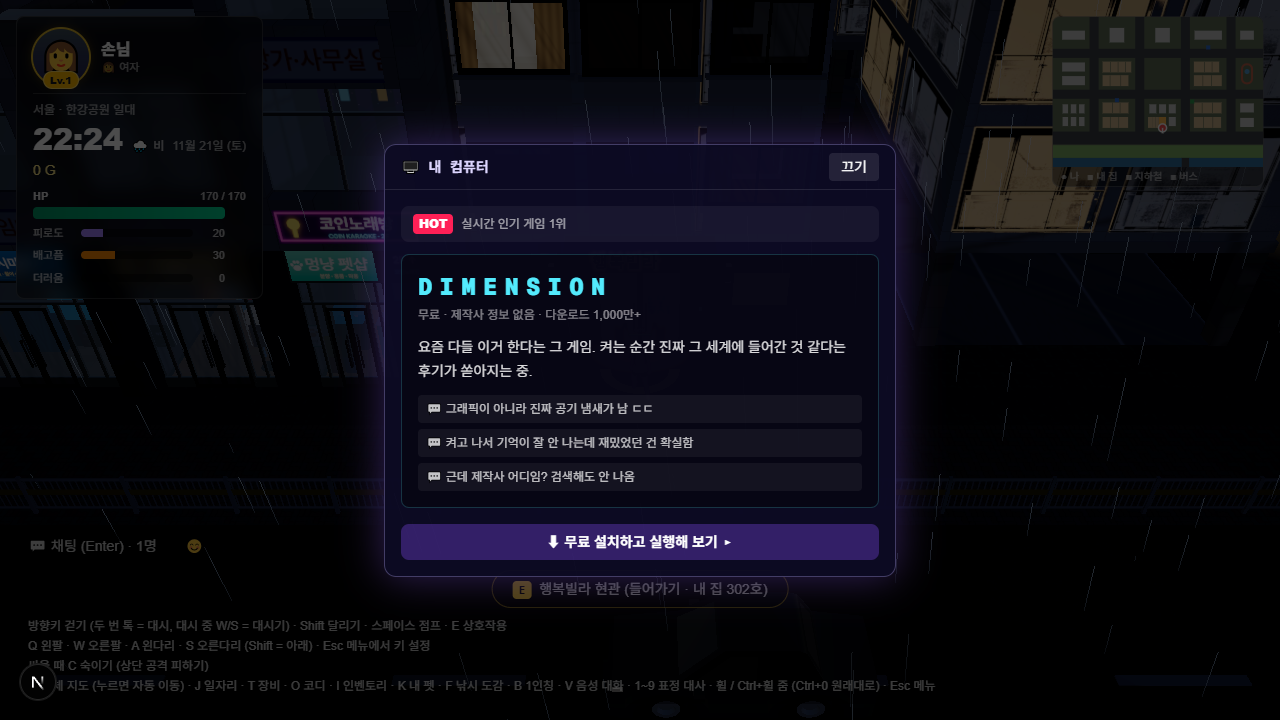
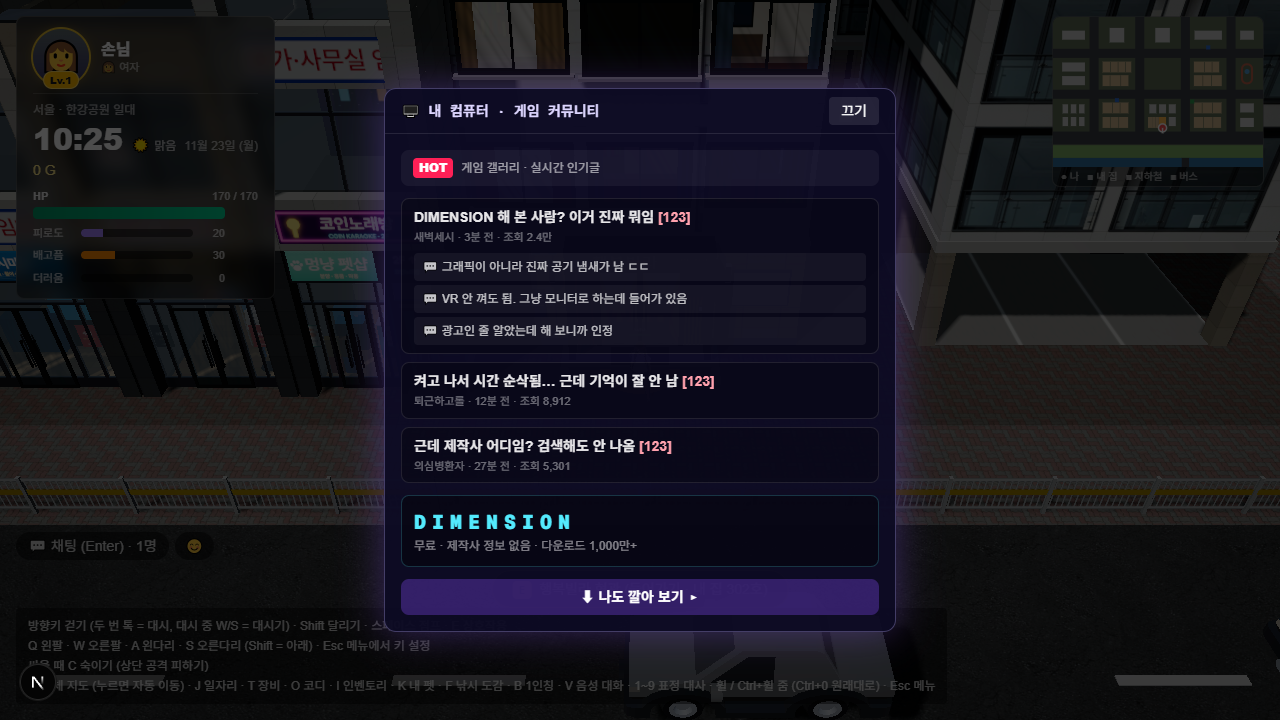
IRON FIST: 프롤로그를 '게임이라고 믿는 순서'로 바꾼 내용 반영 (인터넷 소문·설치 화면·가짜 게임 HUD)

diff --git a/src/App.js b/src/App.js
@@ -305,7 +305,7 @@ useEffect(() => {
       name: '프로젝트 3: Together 웹 3D 격투 RPG',
       thumbnail: '/together-cover.jpg',
       description: '브라우저에서 바로 즐기는 3D 격투 RPG입니다. 격투 대전과 서울 동네를 걷는 생활 모드, 집 컴퓨터로 접속하는 몬스터 차원, 실시간 멀티플레이까지 담았습니다.',
-      fullDescription: 'Together(옛 이름 IRON FIST)는 설치 없이 웹 브라우저에서 바로 플레이하는 3D 격투 RPG입니다. 철권 같은 3D 격투 게임의 손맛을 웹에서 구현해 보고 싶어 시작했고, 지금도 계속 개발하고 있습니다.\n\n1:1 대전(VS CPU, 2P, 연습 모드)을 만들었고, 레벨·경험치·골드는 하나의 프로필로 모든 모드가 함께 씁니다. 몬스터 사냥은 따로 고르는 메뉴가 아니라 이야기 속으로 넣었습니다. 서울 내 집 컴퓨터에서 요즘 유행한다는 게임 DIMENSION을 깔아 실행하면 모니터 속으로 빨려 들어가 몬스터가 사는 다른 차원으로 떨어집니다. 처음 한 번은 프롤로그가 펼쳐집니다. 안개 숲에 떨어져 정체 모를 그림자에게 쫓기다 벼랑 끝에서 뛰어내릴지 맞서 싸울지 고르고, 벼랑 아래에서 마을 사람에게 구조되어 깨어납니다. 모든 대사창에는 말하는 사람의 초상화가 함께 나오며, 그린 초상화가 없는 캐릭터·NPC·몬스터는 3D 모델의 얼굴을 그 자리에서 찍어 씁니다. 이야기의 무대는 사냥터 남쪽의 경계 마을입니다. 돌담과 북문으로 사냥터와 이어져 있고 몬스터는 마을에 들어오지 못하며, 포탈 안내인·촌장·북문 문지기·여관 주인·마을 아이 다섯 NPC에게 말을 걸어 이 세계의 이야기를 들을 수 있습니다. 차원에 들어간 사람은 서울에서 사라지고, 로그아웃하면 다시 집 컴퓨터 앞으로 돌아옵니다. 같은 차원에 접속한 사람들은 모두 같은 몬스터를 보며 함께 싸웁니다. 가장 먼저 들어온 사람의 브라우저가 몬스터를 계산해 보내고, 그 사람이 나가면 다음 사람이 받은 장면에서 이어서 계산합니다. 함께 때린 몬스터를 잡으면 때린 사람 모두가 경험치와 골드를 받습니다. 여기에 한강이 보이는 서울 동네를 걸으며 내 집(행복빌라)에 들어가고, 아르바이트·낚시·옷 가게·펫 키우기·코인노래방을 즐기고, 지하철을 타고 놀이공원에 가서 놀이기구를 1인칭으로 타는 생활 모드를 더했습니다. 동네에는 계절에 따라 비·눈·뇌우·안개가 바뀌는 날씨도 있습니다.\n\n타격 판정은 주먹·발이 실제로 상대 몸에 닿는 순간에만 들어갑니다. 화면 캐릭터와 같은 관절 각도를, 캐릭터마다 3D 모델 뼈에서 잰 팔·다리 길이로 이어 붙여 매 프레임 주먹·발과 상대 몸의 위치를 계산합니다. 상대를 보고 있는 캐릭터는 캐릭터마다 다른 반응 속도로 공격을 알아채고 뒤로 피하며, 거리가 모자라면 피하다가 맞습니다.\n\n집 안에서는 샤워·양치·설거지·빨래 같은 집안일을 단계별 동작으로 할 수 있습니다. 샤워는 부스로 들어가 물을 틀고 머리를 감고 몸을 닦고 헹군 뒤 수건으로 닦는 순서로 진행되고, 씻는 동안에는 목욕 가운을 입고 머리카락을 수건 속에 감싼 모습으로 바뀝니다(가운과 수건은 캐릭터마다 몸통·팔 굵기를 재서 맞춰 만들어 뼈에 붙입니다). 씻을수록 땀·먼지 수치가 줄어듭니다. 냉장고에서 꺼내 먹은 그릇은 싱크대에 쌓여 한 개씩 닦아 건조대에 올리고, 빨래는 세탁기에 넣으면 실제 시간으로 돌아가며 끝나면 꺼내 건조대에 널었다가 마르면 갭니다. 진행 상태는 계정에 저장되어 창을 닫아도 세탁과 건조가 이어집니다.\n\n로그인하면 기록이 Supabase 서버에 자동 저장되고, 같은 동네에 접속한 친구와 실시간으로 만나 함께 움직이고 겨룰 수 있습니다. 내가 보는 친구의 행동과 친구가 보는 내 행동이 같도록, 근무·낚시·잠자기·TV 시청 같은 행동도 서로의 화면에 똑같이 보이게 맞췄습니다. 게임 속 시각은 서버 시각에 맞춘 실제 한국 시각과 같고, 날씨·행인·자동차·신호등·경찰은 접속자 중 한 명의 브라우저가 계산해 나머지에게 보내므로 모든 사람이 같은 상황을 겪습니다. 동네 NPC와는 Claude API로 자유롭게 대화할 수 있습니다. 사양이 낮은 컴퓨터에서도 할 수 있도록, 처음 접속할 때 그래픽카드를 보고 시작 화질을 정하고 프레임이 떨어지면 후처리·그림자·해상도 순으로 화질을 9단계까지 자동으로 낮추며, 메뉴에서 화질을 직접 고를 수도 있습니다. 기획부터 구현, 테스트, 배포까지 AI(Claude Code)와 협업해 혼자 진행하고 있는 프로젝트입니다.',
+      fullDescription: 'Together(옛 이름 IRON FIST)는 설치 없이 웹 브라우저에서 바로 플레이하는 3D 격투 RPG입니다. 철권 같은 3D 격투 게임의 손맛을 웹에서 구현해 보고 싶어 시작했고, 지금도 계속 개발하고 있습니다.\n\n1:1 대전(VS CPU, 2P, 연습 모드)을 만들었고, 레벨·경험치·골드는 하나의 프로필로 모든 모드가 함께 씁니다. 몬스터 사냥은 따로 고르는 메뉴가 아니라 이야기 속으로 넣었습니다. 서울 내 집 컴퓨터에서 인터넷 커뮤니티에 소문이 자자한 게임 DIMENSION을 깔아 실행하면 몬스터가 사는 다른 차원에 접속합니다. 처음 한 번은 프롤로그가 펼쳐지는데, 주인공이 처음엔 이곳을 정말 게임이라고 믿다가 그 믿음이 깨지는 순서로 짰습니다. 안개 숲에는 퀘스트·미니맵·체력 바 같은 게임 화면이 떠 있지만, 정체 모를 그림자가 나타나면 화면이 지지직거리며 하나씩 꺼집니다. "어차피 게임인데" 하며 벼랑에서 뛰어내리면 게임 화면이 완전히 사라지고, 벼랑 아래에서 마을 사람에게 구조되어 깨어나 "게임인데 왜 아프지?" 하고 처음으로 의심합니다. 모든 대사창에는 말하는 사람의 초상화가 함께 나오며, 그린 초상화가 없는 캐릭터·NPC·몬스터는 3D 모델의 얼굴을 그 자리에서 찍어 씁니다. 이야기의 무대는 사냥터 남쪽의 경계 마을입니다. 돌담과 북문으로 사냥터와 이어져 있고 몬스터는 마을에 들어오지 못하며, 포탈 안내인·촌장·북문 문지기·여관 주인·마을 아이 다섯 NPC에게 말을 걸어 이 세계의 이야기를 들을 수 있습니다. 차원에 들어간 사람은 서울에서 사라지고, 로그아웃하면 다시 집 컴퓨터 앞으로 돌아옵니다. 같은 차원에 접속한 사람들은 모두 같은 몬스터를 보며 함께 싸웁니다. 가장 먼저 들어온 사람의 브라우저가 몬스터를 계산해 보내고, 그 사람이 나가면 다음 사람이 받은 장면에서 이어서 계산합니다. 함께 때린 몬스터를 잡으면 때린 사람 모두가 경험치와 골드를 받습니다. 여기에 한강이 보이는 서울 동네를 걸으며 내 집(행복빌라)에 들어가고, 아르바이트·낚시·옷 가게·펫 키우기·코인노래방을 즐기고, 지하철을 타고 놀이공원에 가서 놀이기구를 1인칭으로 타는 생활 모드를 더했습니다. 동네에는 계절에 따라 비·눈·뇌우·안개가 바뀌는 날씨도 있습니다.\n\n타격 판정은 주먹·발이 실제로 상대 몸에 닿는 순간에만 들어갑니다. 화면 캐릭터와 같은 관절 각도를, 캐릭터마다 3D 모델 뼈에서 잰 팔·다리 길이로 이어 붙여 매 프레임 주먹·발과 상대 몸의 위치를 계산합니다. 상대를 보고 있는 캐릭터는 캐릭터마다 다른 반응 속도로 공격을 알아채고 뒤로 피하며, 거리가 모자라면 피하다가 맞습니다.\n\n집 안에서는 샤워·양치·설거지·빨래 같은 집안일을 단계별 동작으로 할 수 있습니다. 샤워는 부스로 들어가 물을 틀고 머리를 감고 몸을 닦고 헹군 뒤 수건으로 닦는 순서로 진행되고, 씻는 동안에는 목욕 가운을 입고 머리카락을 수건 속에 감싼 모습으로 바뀝니다(가운과 수건은 캐릭터마다 몸통·팔 굵기를 재서 맞춰 만들어 뼈에 붙입니다). 씻을수록 땀·먼지 수치가 줄어듭니다. 냉장고에서 꺼내 먹은 그릇은 싱크대에 쌓여 한 개씩 닦아 건조대에 올리고, 빨래는 세탁기에 넣으면 실제 시간으로 돌아가며 끝나면 꺼내 건조대에 널었다가 마르면 갭니다. 진행 상태는 계정에 저장되어 창을 닫아도 세탁과 건조가 이어집니다.\n\n로그인하면 기록이 Supabase 서버에 자동 저장되고, 같은 동네에 접속한 친구와 실시간으로 만나 함께 움직이고 겨룰 수 있습니다. 내가 보는 친구의 행동과 친구가 보는 내 행동이 같도록, 근무·낚시·잠자기·TV 시청 같은 행동도 서로의 화면에 똑같이 보이게 맞췄습니다. 게임 속 시각은 서버 시각에 맞춘 실제 한국 시각과 같고, 날씨·행인·자동차·신호등·경찰은 접속자 중 한 명의 브라우저가 계산해 나머지에게 보내므로 모든 사람이 같은 상황을 겪습니다. 동네 NPC와는 Claude API로 자유롭게 대화할 수 있습니다. 사양이 낮은 컴퓨터에서도 할 수 있도록, 처음 접속할 때 그래픽카드를 보고 시작 화질을 정하고 프레임이 떨어지면 후처리·그림자·해상도 순으로 화질을 9단계까지 자동으로 낮추며, 메뉴에서 화질을 직접 고를 수도 있습니다. 기획부터 구현, 테스트, 배포까지 AI(Claude Code)와 협업해 혼자 진행하고 있는 프로젝트입니다.',
       techStack: ['Next.js', 'TypeScript', 'Three.js', 'Supabase', 'Supabase Realtime', 'WebRTC', 'Claude API', 'Vercel'],
       github: 'https://github.com/dudnjs123456-blip/ONE',
       demo: 'https://tekken-web-five.vercel.app',
@@ -315,8 +315,8 @@ useEffect(() => {
         { type: 'image_text', title: '2. 실제 화면: 메인 메뉴', image: '/ironfist-menu.jpg', imageClassName: 'eywa-screen-image', content: '로그인하면 레벨과 골드, 클라우드 저장 상태를 보여 주고, 라이프 · 대전 모드를 고를 수 있습니다. 게임 이름을 IRON FIST에서 Together로 바꾸면서 메인 화면도 새로 꾸몄습니다. 검은 밤하늘에 별이 반짝이고, 위쪽에는 크기·높이·속도가 다른 구름들이 천천히 흘러가며, 아래에는 창문 불빛이 켜진 보랏빛 도시 실루엣이 깔립니다. 제목 로고는 손글씨 글꼴에 흰 테두리를 둘러 획을 두껍게 만들고, 초승달과 반짝이는 별을 곁들였습니다. 메뉴 카드는 둥근 반투명 유리 카드로 바꿔 마우스를 올리면 살짝 떠오르게 했고, 로그인 화면도 같은 분위기로 맞췄습니다. 글꼴 파일은 저장소에 직접 넣어 어디서 접속해도 같은 모양으로 보이고, 기기에서 동작 줄이기를 켠 사용자에게는 구름과 별이 멈춘 채로 보입니다.' },
         { type: 'text', title: '3. 격투 엔진 설계', content: '게임 로직은 1/60초 고정 간격으로 진행하고, 화면 그리기와 분리했습니다.\n같은 입력이면 항상 같은 결과가 나오도록 만들었습니다. 덕분에 경기 중 입력만 녹화해 두었다가 그대로 다시 재생하는 리플레이 기능을 붙였고, 나중에 온라인 대전도 같은 방식으로 붙일 수 있습니다.\n기술은 발생·지속·후딜 프레임과 가드·히트 시 이득으로 정의하고, 상·중·하단 판정, 띄우기 콤보, 횡이동 회피를 구현했습니다.' },
         { type: 'image_text', title: '4. 실제 화면: 1:1 대전', image: '/ironfist-versus.jpg', imageClassName: 'eywa-screen-image', content: 'VRM 3D 캐릭터에 모션 캡처 애니메이션을 섞어 움직임을 표현했습니다. 캐릭터는 코디 창에서 고를 수 있고, 기본 남자·여자 모델 외에 VRoid Studio로 직접 만든 캐릭터도 넣었습니다. 코디 창에서는 옷 색만 바꾸는 데서 나아가 옷 자체를 갈아입을 수 있습니다. 다른 캐릭터의 옷을 떼어 몸매가 다른 기본 몸에 자동으로 맞추는 변환 도구를 만들어(뼈 위치 차이 보정, 원래 몸과의 간격을 새 몸에 재현, 몸이 뚫고 나온 곳 밀어내기), 옷만 담긴 0.4~0.8MB 파일을 게임에서 캐릭터 뼈대에 다시 묶어 입히고 치마 흔들림까지 옮겼습니다. 이 도구로 여러 캐릭터의 티셔츠·반바지·와이드 반바지·롱 원피스를 뽑아, 상의·하의를 따로 바꿔 입고(긴바지는 몸에 붙는 스키니로 칠하고, 하이힐 발에 맞지 않는 납작한 신발 대신 원래 구두에 색을 입힘) 코디 색과 줄무늬·체크 무늬를 진짜 옷 그림에 입히도록 했습니다. 소매·바짓가랑이가 팔다리를 따라가는 설정까지 함께 옮겨, 팔을 내리거나 걸어도 옷이 자연스럽게 움직입니다. 화면 아래에는 방금 맞힌 기술의 판정과 데미지가 표시되고, 경기가 끝나면 준 데미지·맞힌 횟수·카운터·최대 콤보 같은 경기 통계를 보여 줍니다. 연습 모드에서는 추천 콤보를 캐릭터가 직접 시연하고, 방금 누른 방향·버튼과 프레임 수를 입력 기록으로 보여 주며, 내 동작을 5초 녹화하면 허수아비가 그대로 반복해 막기·반격을 연습할 수 있습니다. VS CPU에서 이기면 난이도별 점수가 쌓여 입문부터 철권왕까지 7단계 랭크가 오르고, 전적과 함께 계정에 저장됩니다.' },
-        { type: 'image_text', title: '5. 실제 화면: 집 컴퓨터와 유행하는 게임', image: '/ironfist-dimension-game.png', imageClassName: 'eywa-screen-image', content: '서울 내 집 책상의 컴퓨터를 켜면 처음에는 실시간 인기 게임 1위 DIMENSION의 소개가 뜹니다. "켜는 순간 진짜 그 세계에 들어간 것 같다"는 후기와 "제작사가 검색해도 안 나온다"는 수상한 글이 함께 보입니다. 설치하고 실행하면 모니터 화면이 점점 다가오며 하얗게 번쩍이고, 그대로 화면 속 세계로 빨려 들어갑니다. 다음부터는 접속 기록과 함께 바로 실행 화면이 뜨고, 친구 집 컴퓨터나 근무 중에는 켤 수 없습니다.' },
-        { type: 'image_text', title: '5-1. 실제 화면: 프롤로그, 안개 숲의 벼랑', image: '/ironfist-prologue-cliff.png', imageClassName: 'eywa-screen-image', content: '처음 접속하면 한 번만 보는 이야기입니다. 하늘에서 보랏빛 안개 숲에 떨어져 정신을 차리고 길을 따라 걷다 보면, 등 뒤 안개 속에서 이름도 보이지 않는 그림자가 나타납니다. 주먹이 전혀 통하지 않는 상대라 Shift로 달려 도망쳐야 하고, 걸으면 따라잡혀 맞습니다. 막다른 벼랑에 몰리면 아래로 경계 마을의 불빛이 보이고, 뛰어내릴지 맞서 싸울지 고릅니다. 맞서면 몇 대 쳐 봐도 꿈쩍도 하지 않아 다시 몰립니다. 뛰어내리면 화면이 어두워지고, 여관 앞에서 눈을 뜨면 벼랑 밑에서 나를 업어 온 여관 주인 달래가 이 세계 이야기를 들려줍니다. 대사창에는 늘 말하는 사람의 초상화가 함께 나오고, 그린 그림이 없는 캐릭터는 3D 모델의 얼굴을 그 자리에서 찍어 보여 줍니다. 혼자 보는 장면이라 다른 사람과 공유하지 않으며, 진행 단계마다 자동 테스트로 확인합니다.' },
+        { type: 'image_text', title: '5. 실제 화면: 집 컴퓨터와 유행하는 게임', image: '/ironfist-dimension-game.png', imageClassName: 'eywa-screen-image', content: '서울 내 집 책상의 컴퓨터를 켜면 처음에는 게임 커뮤니티 인기글이 뜹니다. 소문은 뉴스가 아니라 인터넷에서만 돌고, 글을 누르면 "그래픽이 아니라 진짜 공기 냄새가 난다", "켜고 나서 기억이 잘 안 난다", "제작사가 검색해도 안 나온다" 같은 댓글이 펼쳐집니다. 깔아 보면 약관 동의와 설치 막대까지 평범한 게임 같은데, 캐릭터 이름 칸에는 내 아이디가 이미 적혀 있습니다. 접속하면 게임 로딩 화면이 하얗게 번지며 그대로 그 세계로 넘어갑니다. 다음부터는 접속 기록과 함께 바로 실행 화면이 뜨고, 친구 집 컴퓨터나 근무 중에는 켤 수 없습니다.' },
+        { type: 'image_text', title: '5-1. 실제 화면: 프롤로그, 게임인 줄 알았던 안개 숲', image: '/ironfist-prologue-forest.png', imageClassName: 'eywa-screen-image', content: '처음 접속하면 한 번만 보는 이야기입니다. 게임 캐릭터처럼 빛기둥 속에서 보랏빛 안개 숲에 나타나고, 화면에는 이름·체력 바, 숲길 미니맵, "안개 숲을 벗어나라" 퀘스트 창이 떠 있어 주인공은 "그래픽 미쳤다"며 게임이라고 믿습니다. 길을 따라 걷다 보면 등 뒤 안개 속에서 이름도 보이지 않는 그림자가 나타나고, 그때부터 게임 화면이 지지직 흔들리다 쫓길수록 퀘스트 창, 미니맵 순으로 꺼집니다. 주먹이 전혀 통하지 않는 상대라 Shift로 달려 도망쳐야 하고, 걸으면 따라잡혀 맞습니다. 막다른 벼랑에 몰리면 아래로 경계 마을의 불빛이 보이고, 뛰어내릴지 맞서 싸울지 고릅니다. 맞서면 몇 대 쳐 봐도 꿈쩍도 하지 않아 다시 몰립니다. 뛰어내리면 화면이 어두워지고, 여관 앞에서 눈을 뜨면 벼랑 밑에서 나를 업어 온 여관 주인 달래가 이 세계 이야기를 들려줍니다. 대사창에는 늘 말하는 사람의 초상화가 함께 나오고, 그린 그림이 없는 캐릭터는 3D 모델의 얼굴을 그 자리에서 찍어 보여 줍니다. 혼자 보는 장면이라 다른 사람과 공유하지 않으며, 진행 단계마다 자동 테스트로 확인합니다.' },
         { type: 'image_text', title: '5-2. 실제 화면: 경계 마을', image: '/ironfist-village.jpg', imageClassName: 'eywa-screen-image', content: '차원에 접속하면 경계 마을의 포탈 앞에 도착합니다. 마을은 서울과 다른 판타지 RPG 마을로 꾸몄습니다. 반목조 집과 비늘 기와 지붕, 성벽 망루와 성문 탑, 자갈길과 룬이 새겨진 광장, 시장 노점, 선돌로 둘러싼 포탈이 있고, 모두 코드로 만든 도형과 그림을 재질별로 합쳐 그립니다. 캐릭터가 높은 건물 뒤로 가면 그 건물이 반투명해집니다. 마을에는 차원 마법사 노아, 촌장 겸 길드 마스터 마루, 북문 기사 바위, 여관 주인 달래, 꼬마 모험가 콩이가 있습니다. NPC도 주인공과 같은 애니풍 3D 캐릭터이고, 뾰족 모자·깃털 베레모·두건, 긴 망토와 짧은 망토, 어깨 갑옷, 앞치마 같은 판타지 옷을 모델 치수(머리 크기·어깨 폭·허리 높이)를 재서 코드로 만들어 입혔습니다. 가까이 가서 E 키(터치 화면은 버튼)를 누르면 대화창이 열립니다. 아직 인사하지 않은 NPC는 이름표에 ❗ 표시가 붙고, 처음 만나면 이 세계와 차원 틈에 대한 긴 이야기를, 다음부터는 짧은 한마디를 들려줍니다. 만난 기록은 계정에 저장되고, 여관 주인과 대화를 마치면 HP가 가득 찹니다. 마을은 돌담과 북문으로 사냥터와 이어져 있으며 몬스터는 담장 안으로 들어오지 못하고 마을 안 사람을 쫓지 않습니다. 자동 사냥을 켜면 북문으로 나가 사냥을 시작하고, 쓰러지면 마을 포탈 앞에서 다시 깨어납니다.' },
         { type: 'image_text', title: '5-3. 실제 화면: 다른 차원 사냥터', image: '/ironfist-field.jpg', imageClassName: 'eywa-screen-image', content: '경계 마을 북문 밖, 보랏빛 하늘 아래 차원 수정이 서 있는 사냥터입니다. 자동 사냥 AI가 레벨에 맞는 몬스터를 찾아 싸우고, Z 키로 언제든 직접 조작으로 바꿀 수 있습니다. 같은 차원에 들어온 사람들은 Supabase Realtime 채널로 묶여 같은 몬스터를 봅니다. 가장 먼저 들어온 사람이 몬스터를 움직여 초당 10번 장면을 보내고, 다른 사람이 몬스터를 때린 타격은 그 사람에게 보내 같은 계산으로 체력을 깎습니다. 몬스터는 가장 가까운 사람을 노리고, 처치하면 때린 사람 모두에게 보상이 갑니다. 계산하던 사람이 나가거나 창을 내려 소식이 끊기면 다음 사람이 받은 장면에서 이어서 계산합니다. 화면 오른쪽 위의 로그아웃을 누르면 서울 집 컴퓨터 앞으로 돌아옵니다.' },
         { type: 'image_text', title: '6. 실제 화면: 서울 생활 모드', image: '/ironfist-city.jpg', imageClassName: 'eywa-screen-image', content: '한강이 보이는 동네를 걸으며 횡단보도로 길을 건너고, 내 집이 있는 행복빌라에 들어갈 수 있습니다. 집은 대리석 기반의 차분한 방으로 꾸몄습니다. 대리석 타일과 벽 재질은 사진 대신 코드로 직접 생성해(반복해도 이어지는 노이즈로 큰 결과 가는 실금, 타일마다 다른 결), 책상·협탁·주방 상판까지 같은 대리석으로 맞추고 침구·커튼·러그는 웜그레이·아이보리 톤으로 통일했습니다. 집은 실제 1.5룸 빌라처럼 현관 옆 부엌(식탁·세탁기), 칸막이로 나눈 침실(옷장·협탁), 벽에 붙인 TV가 있는 거실, 화장실로 나눴고, 위에서 내려다보는 카메라에 방 안이 가려지지 않도록 칸막이는 허리 높이까지만 보이게 하고 1인칭 시점에서만 천장까지 보이게 했습니다. 아파트 경비 아르바이트, 낚시, 옷 가게, 펫 돌보기, 게임 달력 등 생활 콘텐츠를 계속 늘려 가고 있습니다. 옷 가게에서 산 모자·안경·가방·토끼 머리띠·토끼 꼬리 같은 코디 소품은 캐릭터마다 머리와 몸 크기를 재서 맞춰 붙입니다. 옷에는 요즘 유행하는 원단(꽈배기 니트·스웨이드·워싱 데님·트위드·가죽)을 Adobe Firefly로 만들어 이음매 없는 타일로 다듬은 뒤, 사진의 결만 옷 색에 곱해 캐릭터 화풍은 지키면서 질감을 더했습니다. 펫샵 건물 2층에는 계단으로 올라가는 코인노래방이 있습니다. 날씨는 맑음·흐림·비·뇌우·눈·안개 6가지로, 달마다 잘 나오는 날씨가 다르고 게임 속 4시간마다 서서히 바뀝니다. 동네는 툰 재질 대신 실사 재질(PBR)과 실제 하늘을 360°로 찍은 사진(HDRI)으로 빛과 반사를 받고, 한강에는 잔물결이 흐릅니다. 눈이 오면 바닥이 군데군데 하얗게 쌓였다가 그치면 천천히 녹고, 비가 오면 바닥이 젖어 짙어지며 물웅덩이에 하늘이 비칩니다. 밤에는 푸른 달빛에 캐릭터가 묻히지 않도록 캐릭터에만 비추는 보정광을 셰이더에 넣었습니다. 침대에서 잠들면 몇십 초마다 바로 누웠다가 왼쪽·오른쪽으로 천천히 돌아눕고, 느리게 숨 쉬며 가끔 잠꼬대하듯 웃습니다. 뒤척이는 때와 방향은 서버 시각과 아이디로 정해서 친구 화면에도 똑같이 보입니다.' },
